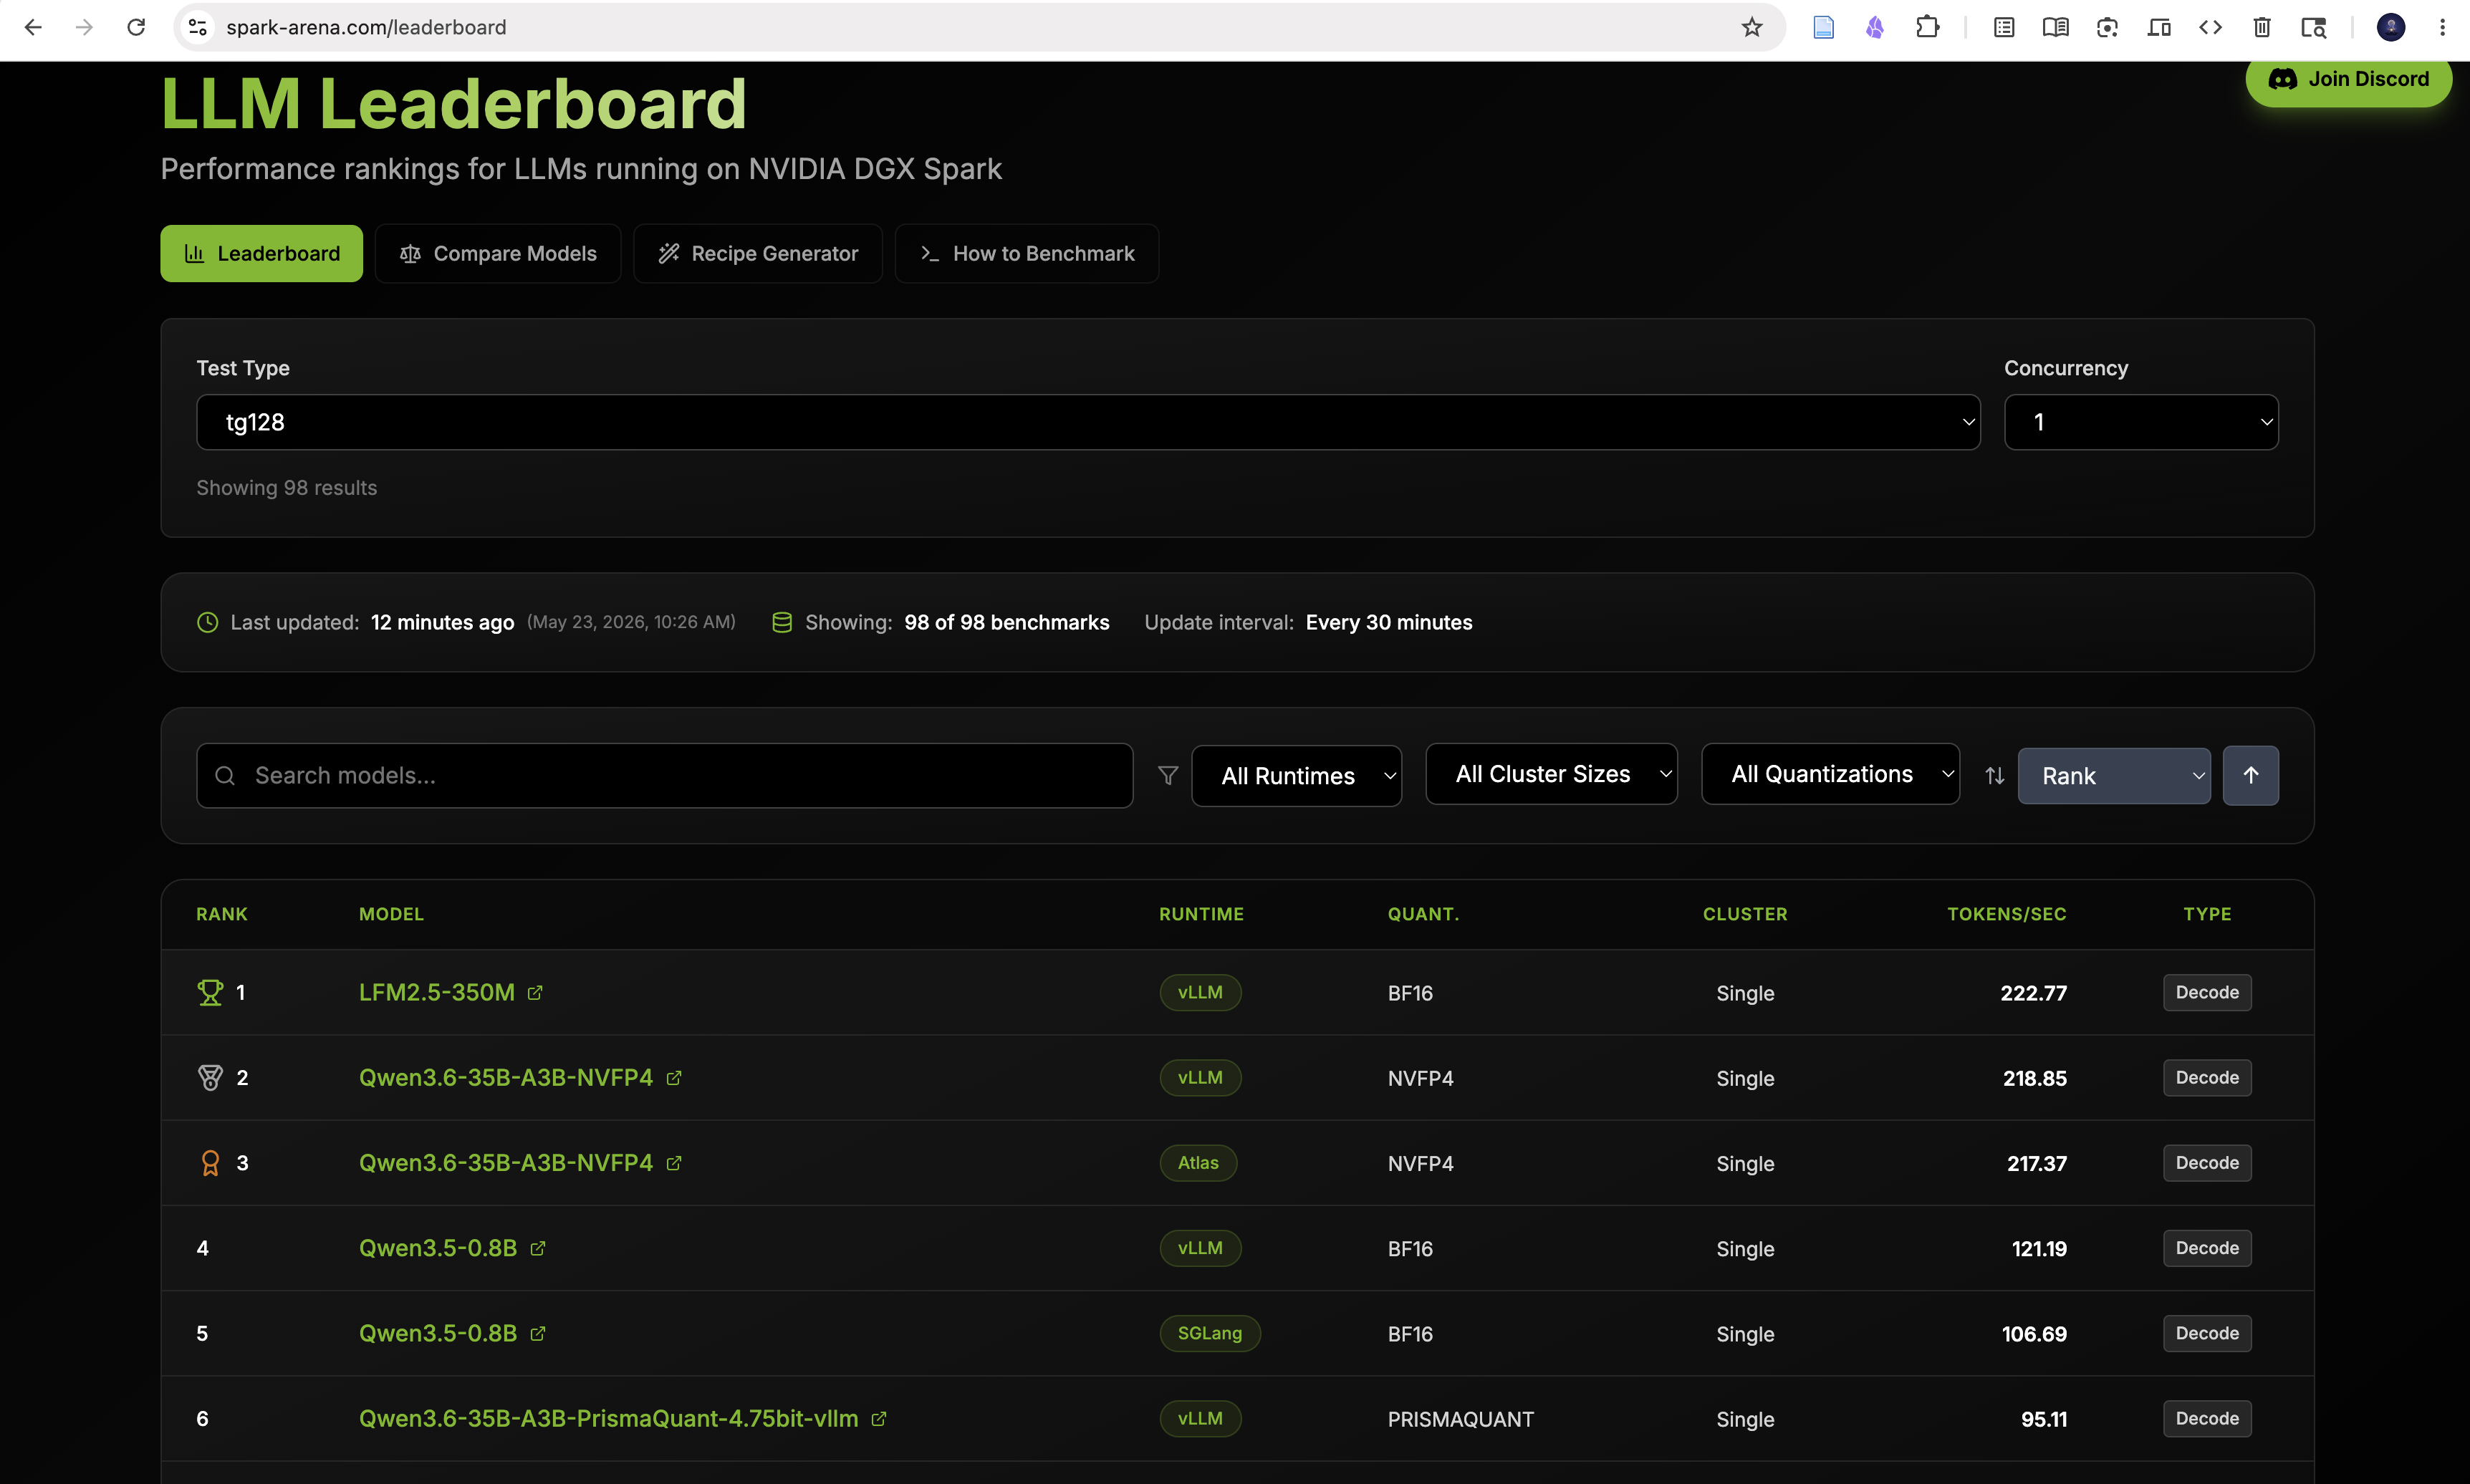
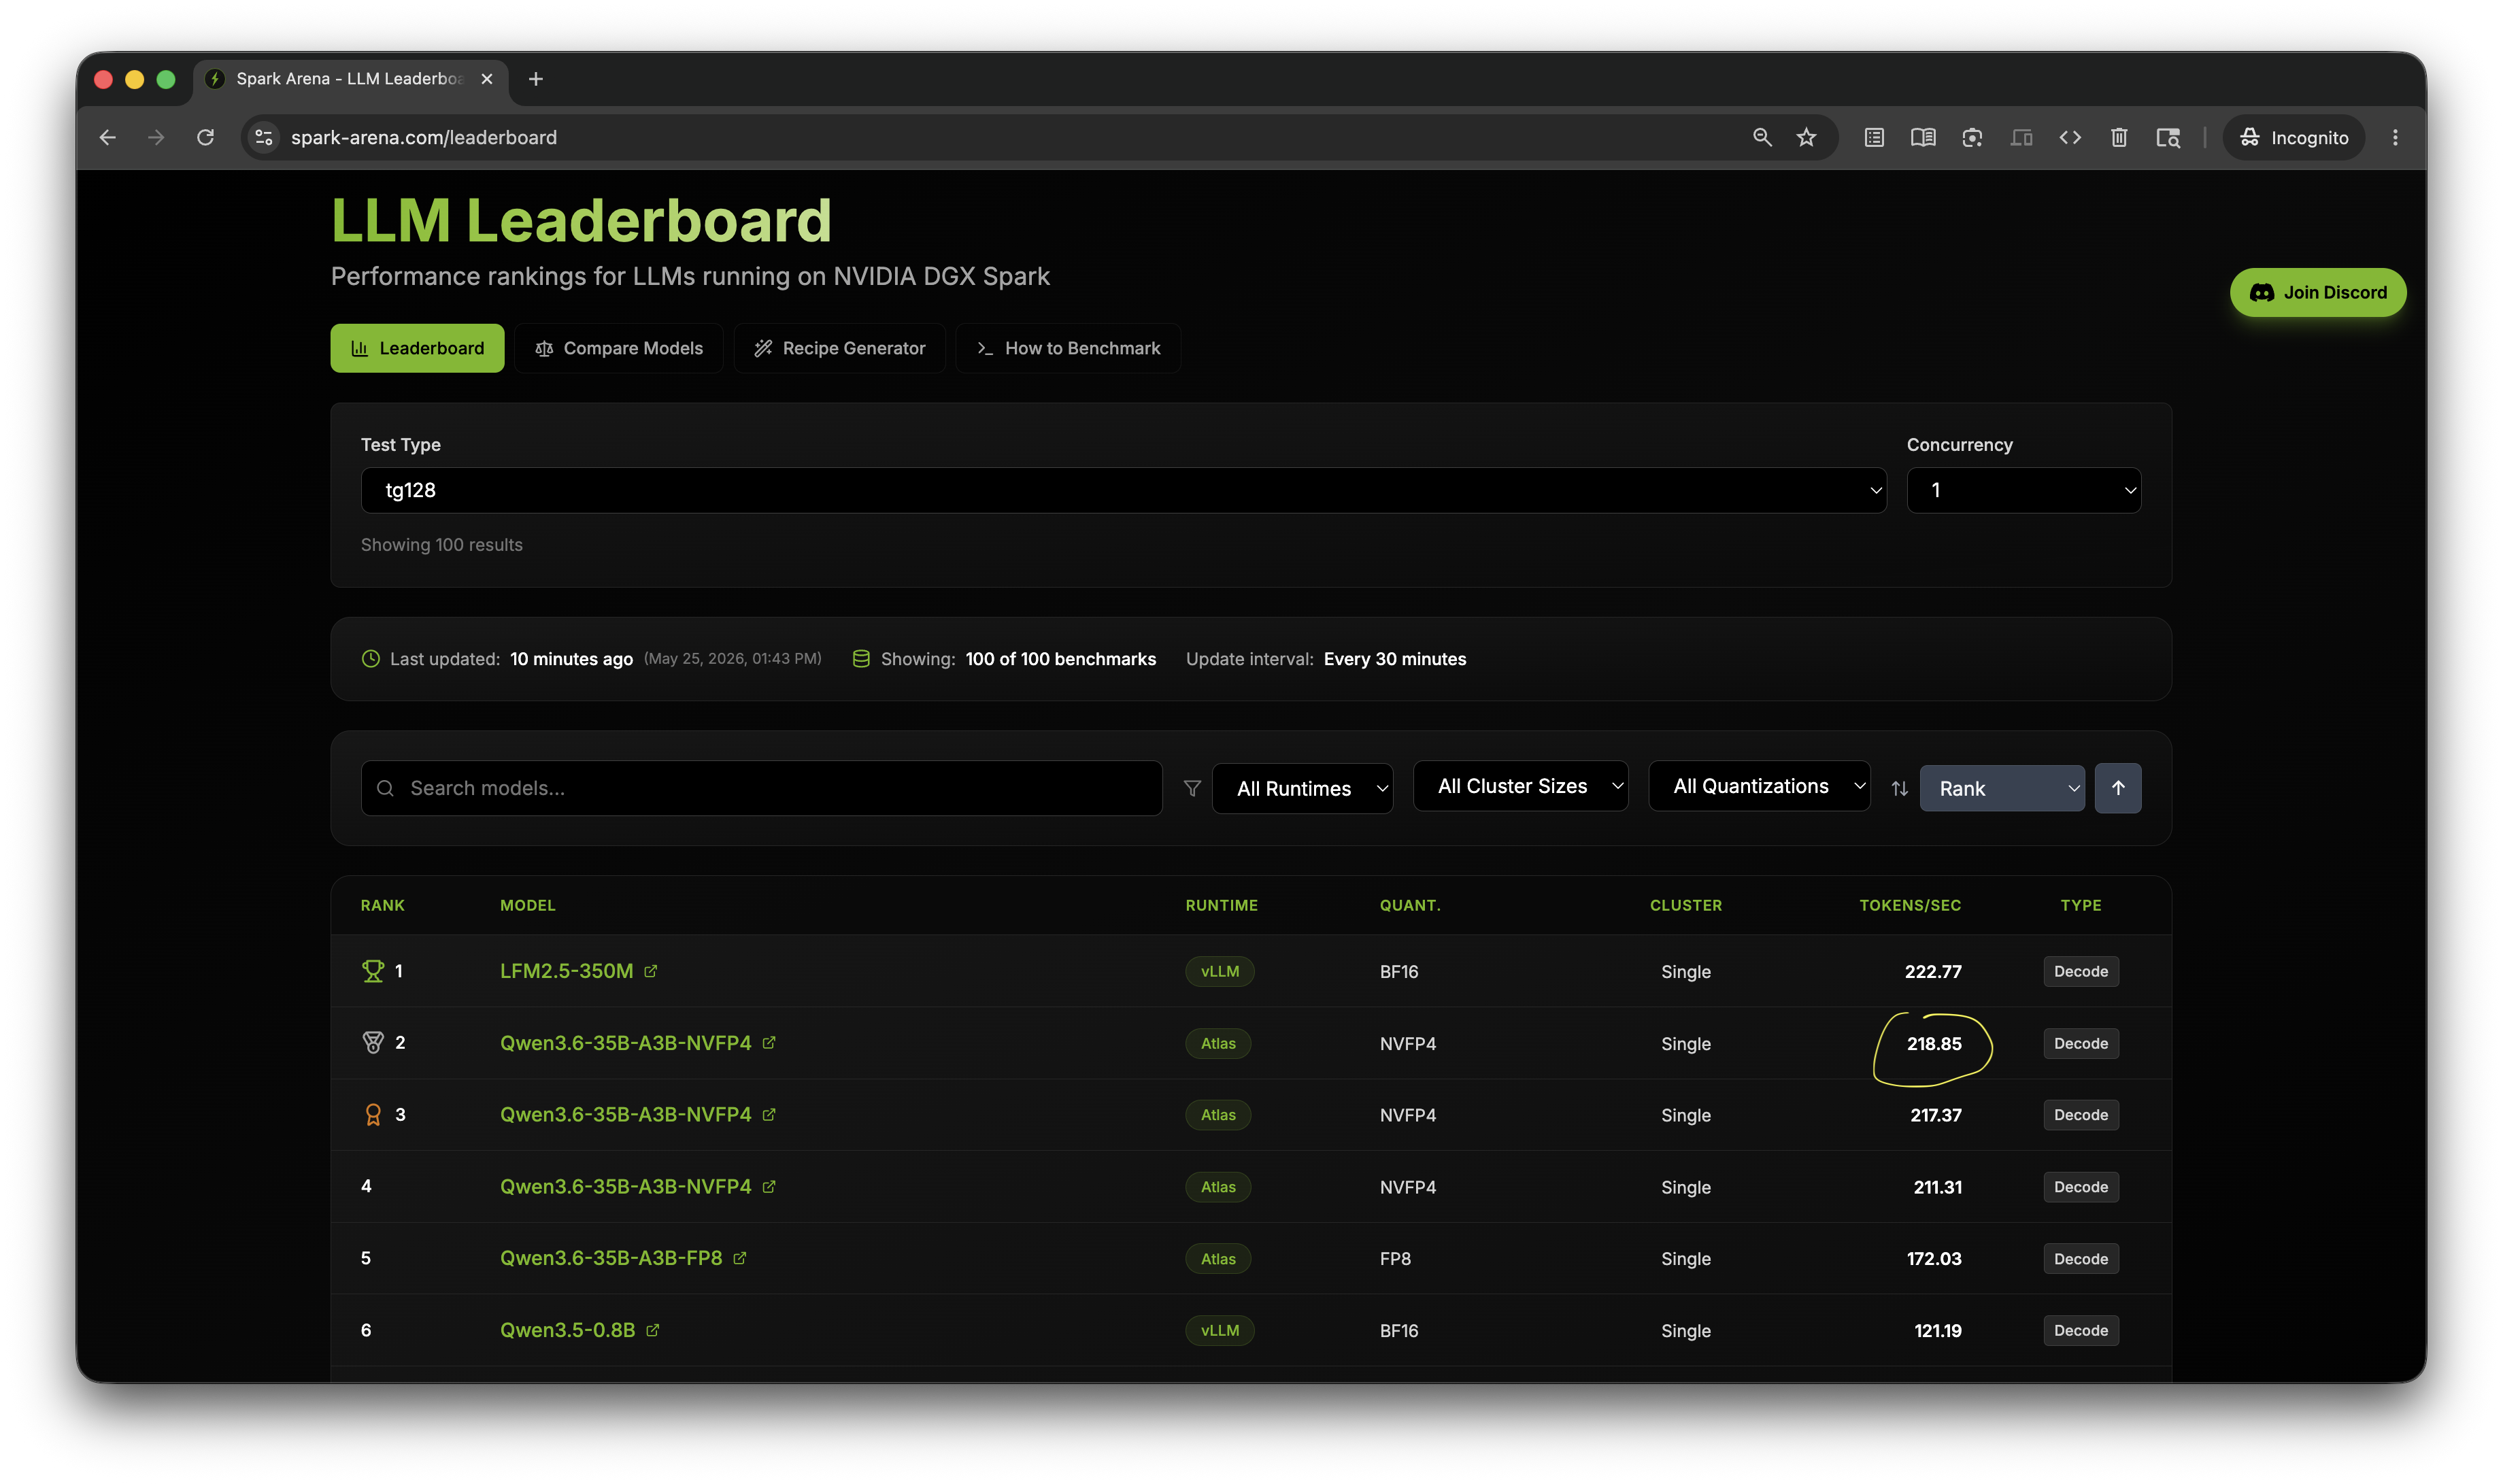
docs: clean up README for Atlas Qwen benchmark repo

diff --git a/README.md b/README.md
@@ -6,7 +6,7 @@ I bought a DGX Spark to do real work: running serious local AI agents and traini
 
 I previously tried to [push a 120B Nemotron setup](https://github.com/airawatraj/dgx-spark-nemotron-super-agent) past the community benchmark records for its league, but I hit a hard speed ceiling at ~24 TPS. I knew this hardware could deliver both deep smarts and blazing speed within its real single-node constraints. I went hunting for a setup that could do two things together:
 1. Solve the logic puzzles people call "unsolvable" for local models.
-2. Deliver the 130+ TPS speed the DGX Spark deserves.
+2. Deliver the best practical speed this DGX Spark hardware could sustain for real work.
 
 `RedHatAI/Qwen3.6-35B-A3B-NVFP4` running on the **Atlas engine** turned out to be that gem.
 
@@ -15,13 +15,13 @@ This repo is a lightweight DGX Spark setup with the absolute minimum pieces need
 > ⚠️ **Personal workstation setup. Not for enterprise use. Use at your own risk.**
 
 ---
-## Requirements 
+## Why This Setup
 
-I needed a local model with both Smarts and Speed and ability to run 24x7 with a large context window for my real agentic workflow.
+I needed a local model with both smarts and speed, plus the ability to run 24x7 with a large context window for my real agentic workflow.
 
-### Solving a puzzle the community said no 'local' LLM could crack
+### Solving a puzzle the community said no local LLM could crack
 
-I came across a reddit thread that claimed ["There's not a SINGLE local LLM which can solve this logic puzzle"](https://www.reddit.com/r/LocalLLaMA/comments/1mblq5g/theres_not_a_single_local_llm_which_can_solve/) - only a couple of local models could do it at the time of posting.
+I came across a Reddit thread that claimed ["There's not a SINGLE local LLM which can solve this logic puzzle"](https://www.reddit.com/r/LocalLLaMA/comments/1mblq5g/theres_not_a_single_local_llm_which_can_solve/) - only a couple of local models could do it at the time of posting.
 
 Running under the `Cogni-Brain` alias, this Qwen 3.6 setup solved it locally in under **30 seconds** due to the massive speed bump.
 
@@ -33,8 +33,8 @@ Running under the `Cogni-Brain` alias, this Qwen 3.6 setup solved it locally in 
 
 ### Agentic work
 
-Cogni-Brain-2 built complete HTML5 chess app via NemoHermes - pawn promotion,
-en passant, castling - autonomously. It utilized an existing skill it created via [Cogni-Brain](https://github.com/airawatraj/dgx-spark-nemotron-super-agent). Progress updates were delivered to Telegram throughout. But it was not as smooth as Nemotron 3 Super. I had to prompt it to continue once.
+Cogni-Brain-2 built a complete HTML5 chess app via NemoHermes - including pawn promotion,
+en passant, and castling - autonomously. It reused an existing skill created in the earlier [Cogni-Brain](https://github.com/airawatraj/dgx-spark-nemotron-super-agent) setup. Progress updates were delivered to Telegram throughout. It was not quite as smooth as Nemotron 3 Super, and I had to prompt it to continue once.
 
 <p align="center">
   <img src="./assets/nemohermes_telegram_chess_build.png" width="260" alt="Telegram Progress">
@@ -46,14 +46,14 @@ en passant, castling - autonomously. It utilized an existing skill it created vi
 ### Official spark-arena Submission
 
 > Benchmarked using [llama-benchy](https://github.com/eugr/llama-benchy) with the standardised spark-arena methodology.
-> NemoHermes and Open WebUI containers were stopped during this run. Only spark-brain (vLLM) running.
-> Published result recorded with `llama-benchy v0.3.8.dev2+gff162bcfc`.
+> NemoHermes and Open WebUI containers were stopped during this run. Only Atlas was running.
+> Benchmarked using `llama-benchy`.
 
 | Metric | Result |
 |---|---|
 | Single session TPS (tg128) | **218.85 tok/s** |
 | Leaderboard Rank | **#2 Overall** (as of May 23, 2026) |
-| Runtime | **vLLM / Atlas** |
+| Runtime | **Atlas** |
 | KV cache dtype | **NVFP4** |
 | Quantization | **NVFP4** |
 | Hardware | **Single DGX Spark (GB10)** |
@@ -117,7 +117,7 @@ Where the 120B model scored 93/100 (struggling slightly with parameter precision
 
 ## Compared to Prior Published Results
 
-This table tracks the performance leap achieved by migrating from the 120B Nemotron stack to the 35B Qwen/Atlas stack, as well as how this setup stacks up in community at time of this test on the exact same DGX Spark hardware.
+This table tracks the performance leap achieved by migrating from the 120B Nemotron stack to the 35B Qwen/Atlas stack, as well as how this setup compared with the community at the time of testing on the exact same DGX Spark hardware.
 
 (spark-arena, tg128) — official
 
@@ -131,6 +131,7 @@ This table tracks the performance leap achieved by migrating from the 120B Nemot
 By dropping the memory ceiling to 0.75 to run real agents in the background, I hit the theoretical wall for long-context concurrency (100k+), but absolutely dominated the single-stream speed charts. 
 
 Happy to be proved wrong - let's keep extracting max juice out of Spark.
+
 ---
 
 
@@ -138,7 +139,7 @@ Happy to be proved wrong - let's keep extracting max juice out of Spark.
 
 ### Nemotron-120B vs. Qwen-35B on DGX Spark
 
-It is important to note that these are fundamentally different classes of models. The 120B Nemotron is an architectural giant built for heavy-duty, deep-reasoning tasks, while the Qwen 3.6-35B is a highly efficient, "agentic" power-house.
+It is important to note that these are fundamentally different classes of models. The 120B Nemotron is an architectural giant built for heavy-duty, deep-reasoning tasks, while the Qwen 3.6-35B is a highly efficient, agentic powerhouse.
 
 | Metric | Nemotron-120B (vLLM) | Qwen 3.6-35B (Atlas) |
 |---|---:|---:|
@@ -168,7 +169,7 @@ Furthermore, while the Qwen stack is blazing fast, it is much more sensitive to 
 
 ## Quick Start
 
-> ⚠️ **Warning:** The setup scripts disable system swap to prevent unified memory thrashing.
+> ⚠️ **Warning:** The setup scripts do not disable system swap. They verify prerequisites, download the model, and launch Atlas with the cache layout expected by the container.
 
 ```bash
 # 1. Verify prerequisites
@@ -198,6 +199,10 @@ uv run benchmark/benchmark_smarts.py
 uv run benchmark/benchmark_speed_arena.py --save-result benchmark/results_arena.csv
 ```
 
+The `benchmark_speed_arena.py` and `benchmark_smarts.py` wrappers fetch `llama-benchy` and `tool-eval-bench` through `uv` on demand, so no separate global install step is required.
+
+These wrappers intentionally resolve the latest available tool version at run time. If you are comparing against the published numbers above, note that reruns may use newer tool versions unless you pin them yourself.
+
 ## Repository Structure
 
 ```text
@@ -221,13 +226,12 @@ dgx-spark-qwen-super-agent/
 
 ## Key Fixes Over Standard Docker Deployments
 
-To hit peak throughput on the Atlas engine, several Docker-level and engine-level limits must be overridden. These are baked into start.sh:
+To hit peak throughput on the Atlas engine, several Docker-level and engine-level limits must be overridden. These are reflected in the setup and start scripts in this repo:
 
 | Bottleneck | Standard Config | Optimized Atlas Config |
 |---|---|---|
 | IPC Choking on batching | Docker default (64MB) | `--shm-size=16gb` |
 | Speculative depth | K=1 | `--num-drafts 1` (K=2) |
-| System swap thrashing | OS default | `vm.drop_caches=3` and swapoff |
 | Cache path mismatch | Direct dir mount | Hub-cache bridging with `refs/main` |
 
 
@@ -244,6 +248,12 @@ export HF_MODELS_ROOT=$HOME/hf-models
 export CONTAINER_NAME=atlas-qwen36
 export ATLAS_IMAGE=avarok/atlas-gb10:latest
 export ATLAS_PORT=8000
-export GPU_MEMORY_UTILIZATION=0.88
+export GPU_MEMORY_UTILIZATION=0.75
 export MAX_SEQ_LEN=131072
 ```
+
+## Known Limitations
+
+- The benchmark wrappers are convenience scripts, not pinned research harnesses. Results may shift if upstream `llama-benchy` or `tool-eval-bench` behavior changes.
+- This Atlas/Qwen setup is much more memory-sensitive than the earlier Nemotron stack under very high concurrency or very long contexts.
+- The custom concurrency benchmark is useful for local comparisons, but the official spark-arena result is the cleaner apples-to-apples number.